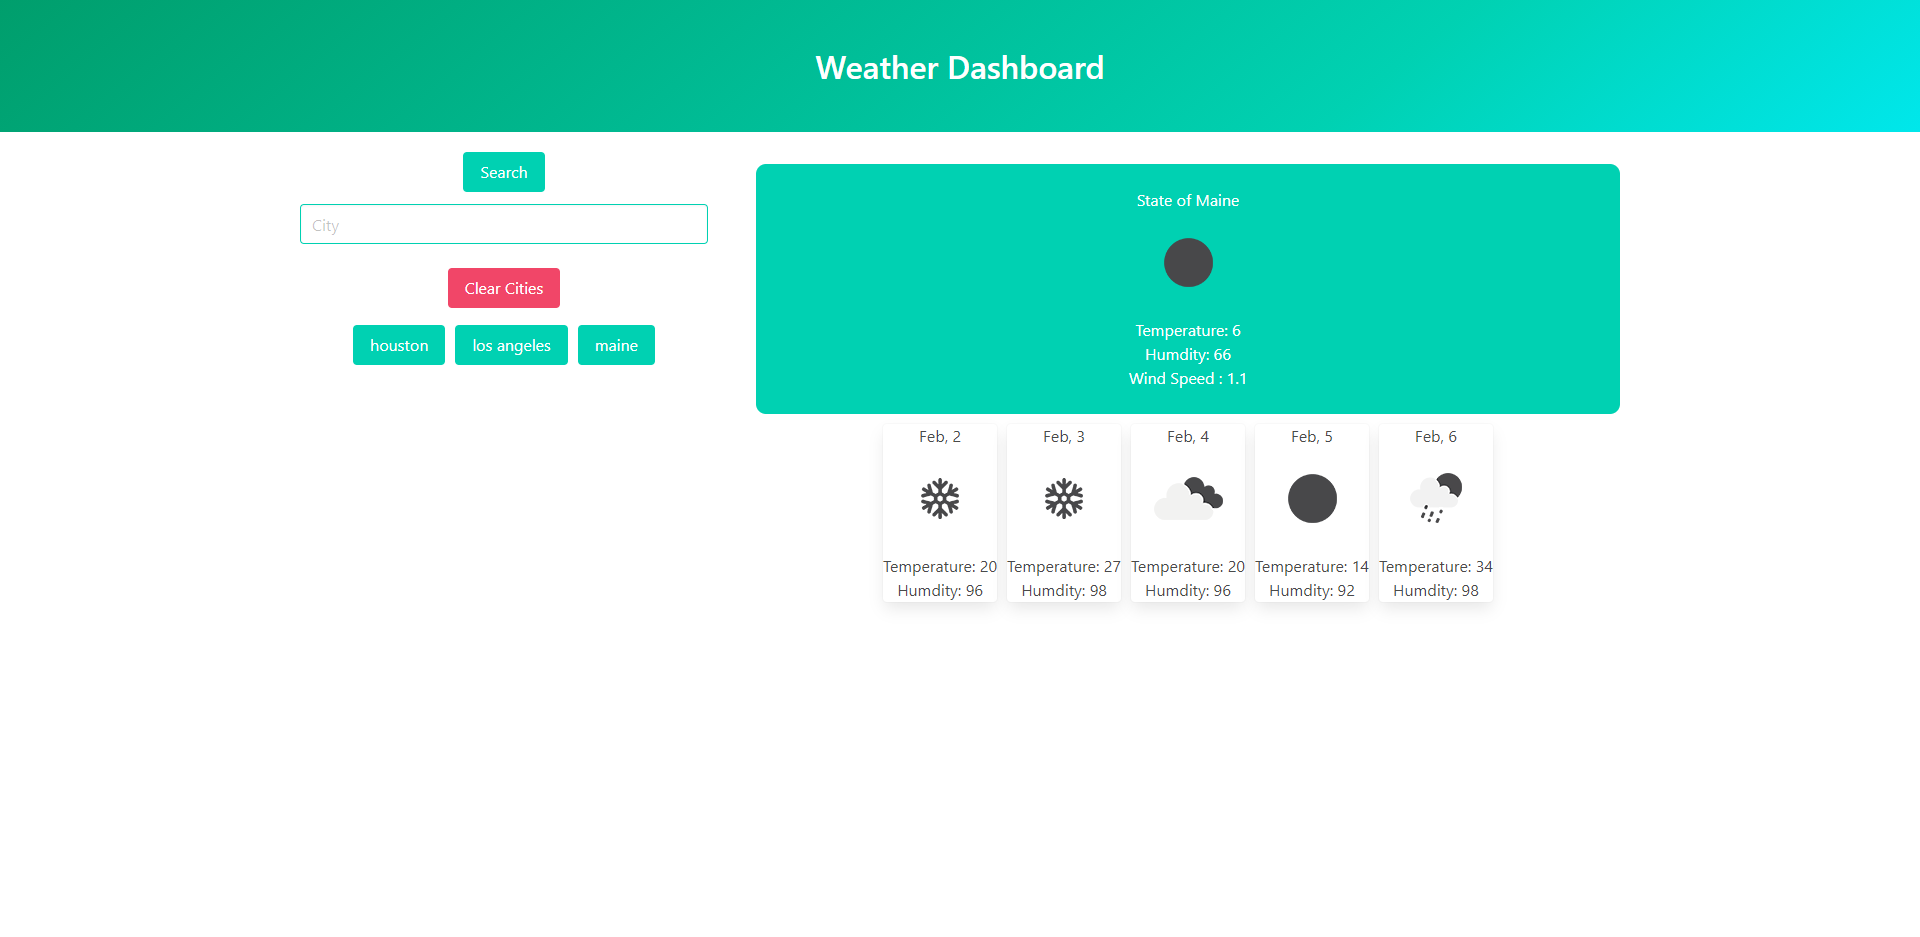
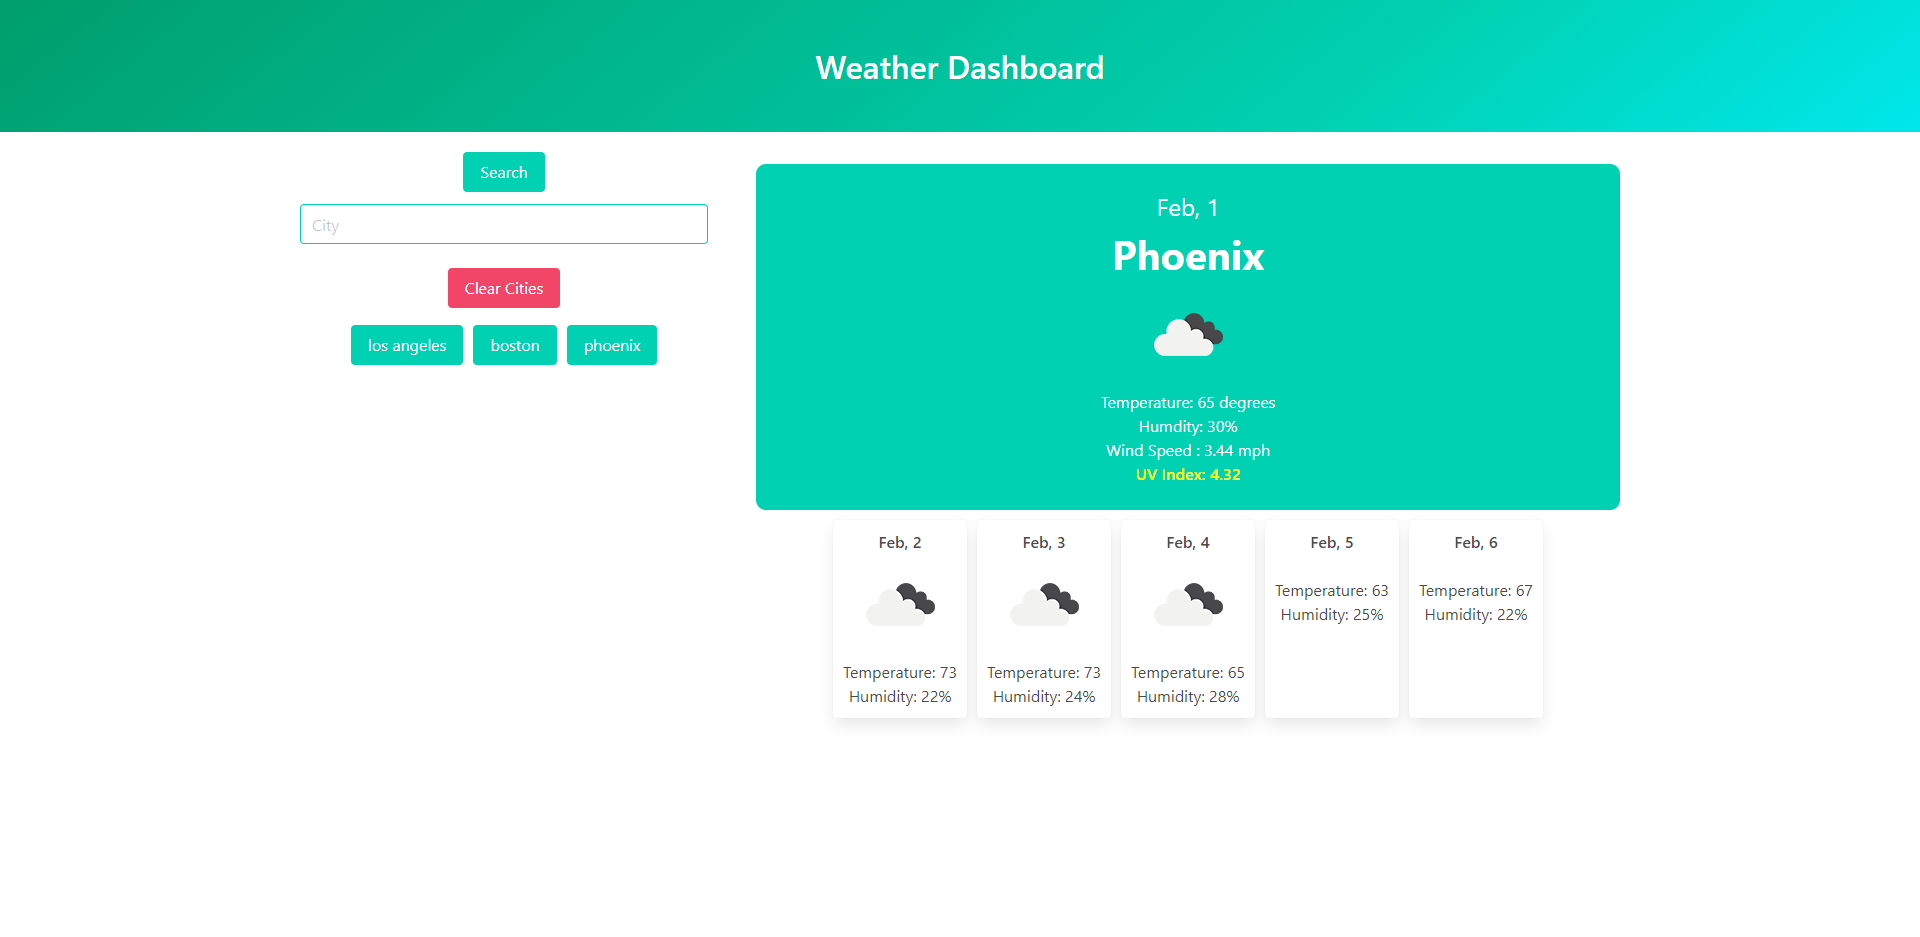
styling in js and updated screenshot

diff --git a/Develop/JavaScript/script.js b/Develop/JavaScript/script.js
@@ -75,7 +75,7 @@ renderButtons();
       // let tempF = Math.floor((response.main.temp - 273.15) *1.80 + 32);
       const lat = response.coord.lat;
       const lon = response.coord.lon;
-      const city = $("<h2 class='is-size-2'>").text(response.name);
+      const city = $("<h2 class='is-size-2 has-text-weight-bold'>").text(response.name);
       const date = $("<h2 class='is-size-4'>").text(dayjs(response.dt_txt).format(`MMM, D`));
       const icon = $("<img>").attr("src","http://openweathermap.org/img/wn/" + response.weather[0].icon + "@2x.png");
       const temp = $("<p>").text(`Temperature: ${Math.floor(response.main.temp)} degrees`);
@@ -83,9 +83,18 @@ renderButtons();
       const wind = $("<p>").text("Wind Speed : " + response.wind.speed + " mph");
       // ---------
       $.get("https://api.openweathermap.org/data/2.5/uvi?lat=" + lat +"&lon="+ lon + "&appid="+ myKey + "").then(function(response) { 
-      const uvIndex = $('<p>').text("UV Index: " + response.value);
-    
-    // console.log(uvIndex)
+      const uvIndex = $('<p class="has-text-weight-semibold">').text("UV Index: " + response.value);
+      if (response.value <= 2) {
+        uvIndex.attr('style', 'color: green')
+      } else if (response.value <=5 || response.value>=3 ) {
+        uvIndex.attr('style', 'color: yellow')
+      }else if (response.value <=7 || response.value>=6 ) {
+          uvIndex.attr('style', 'color: orange')
+      }else if (response.value <=10 || response.value>=8 ) {
+        uvIndex.attr('style', 'color: red')
+      }else {
+      uvIndex.attr('style', 'color: violet')
+      }
       weatherDisplay.append(date, city, icon, temp, humidity, wind, uvIndex);
       todaysWeather.prepend(weatherDisplay);
     })
@@ -104,7 +113,7 @@ renderButtons();
           // console.log(i)
         
         let forecastDisplay = $('<div class="card five-day-card  ">').attr("id",[index] );
-        const date = $("<h2>").text(dayjs(response.list[i].dt_txt).format(`MMM, D`));
+        const date = $("<h2 class='has-text-weight-semibold'>").text(dayjs(response.list[i].dt_txt).format(`MMM, D`));
         const icon = $("<img>").attr("src","http://openweathermap.org/img/wn/" + response.list[i].weather[0].icon +"@2x.png");
         const temp = $("<p>").text("Temperature: " + Math.floor(response.list[i].main.temp));
         const humidity = $("<p>").text("Humidity: " + response.list[i].main.humidity + "%");
